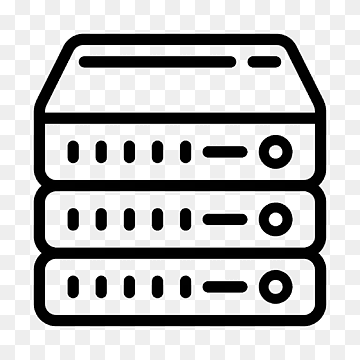
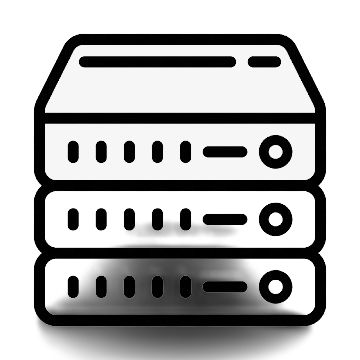
Cadastro finalizado

Changed region(s): [[0.0917, 0.6111, 0.8861, 1.0], [0.275, 0.6111, 0.3056, 0.6417], [0.1833, 0.6111, 0.2139, 0.6417]]

diff --git a/sistema-estoque/src/Componentes/Cadastro/Cadastro.jsx b/sistema-estoque/src/Componentes/Cadastro/Cadastro.jsx
@@ -1,11 +1,12 @@
-import { React, useState } from 'react';
+import React, { useState } from 'react';
 import { useCookies } from 'react-cookie';
 import { useNavigate } from 'react-router-dom';
 import Navbar from '../Elements/Navbar/Navbar';
-import './Cadastro.css'; // Importa o CSS específico para o componente Cadastro
+import Server from '../../assets/Server_Icon.png';
+import './Cadastro.css';
 
 const Cadastro = () => {
-  const [cookies, setCookie, removeCookie] = useCookies(['session']);
+  const [cookies, , removeCookie] = useCookies(['session']);
   const navigate = useNavigate();
 
   const handleLogout = () => {
@@ -67,7 +68,7 @@ const Cadastro = () => {
             onChange={(event) => setValor(event.target.value)}
           />
 
-          <label htmlFor="numeroSerie">N° de serie:</label>
+          <label htmlFor="numeroSerie">N° de série:</label>
           <input
             type="text"
             id="numeroSerie"
@@ -106,11 +107,11 @@ const Cadastro = () => {
           <button type="submit">Cadastrar</button>
         </form>
       </div>
-      <div>
-        rick silva cala a boca
+      <div className="image-container">
+        <img src={Server} alt="Server" className="top-image" />
       </div>
     </div>
   );
-}
+};
 
 export default Cadastro;

diff --git a/sistema-estoque/src/Componentes/Cadastro/Cadastro.css b/sistema-estoque/src/Componentes/Cadastro/Cadastro.css
@@ -5,7 +5,7 @@
     flex-direction: row;
     height: 100vh;
     background-color: #f9f9f9;
-
+    
 }
 .page-container {
     margin-top: 5px; /* Ajuste conforme necessário */
